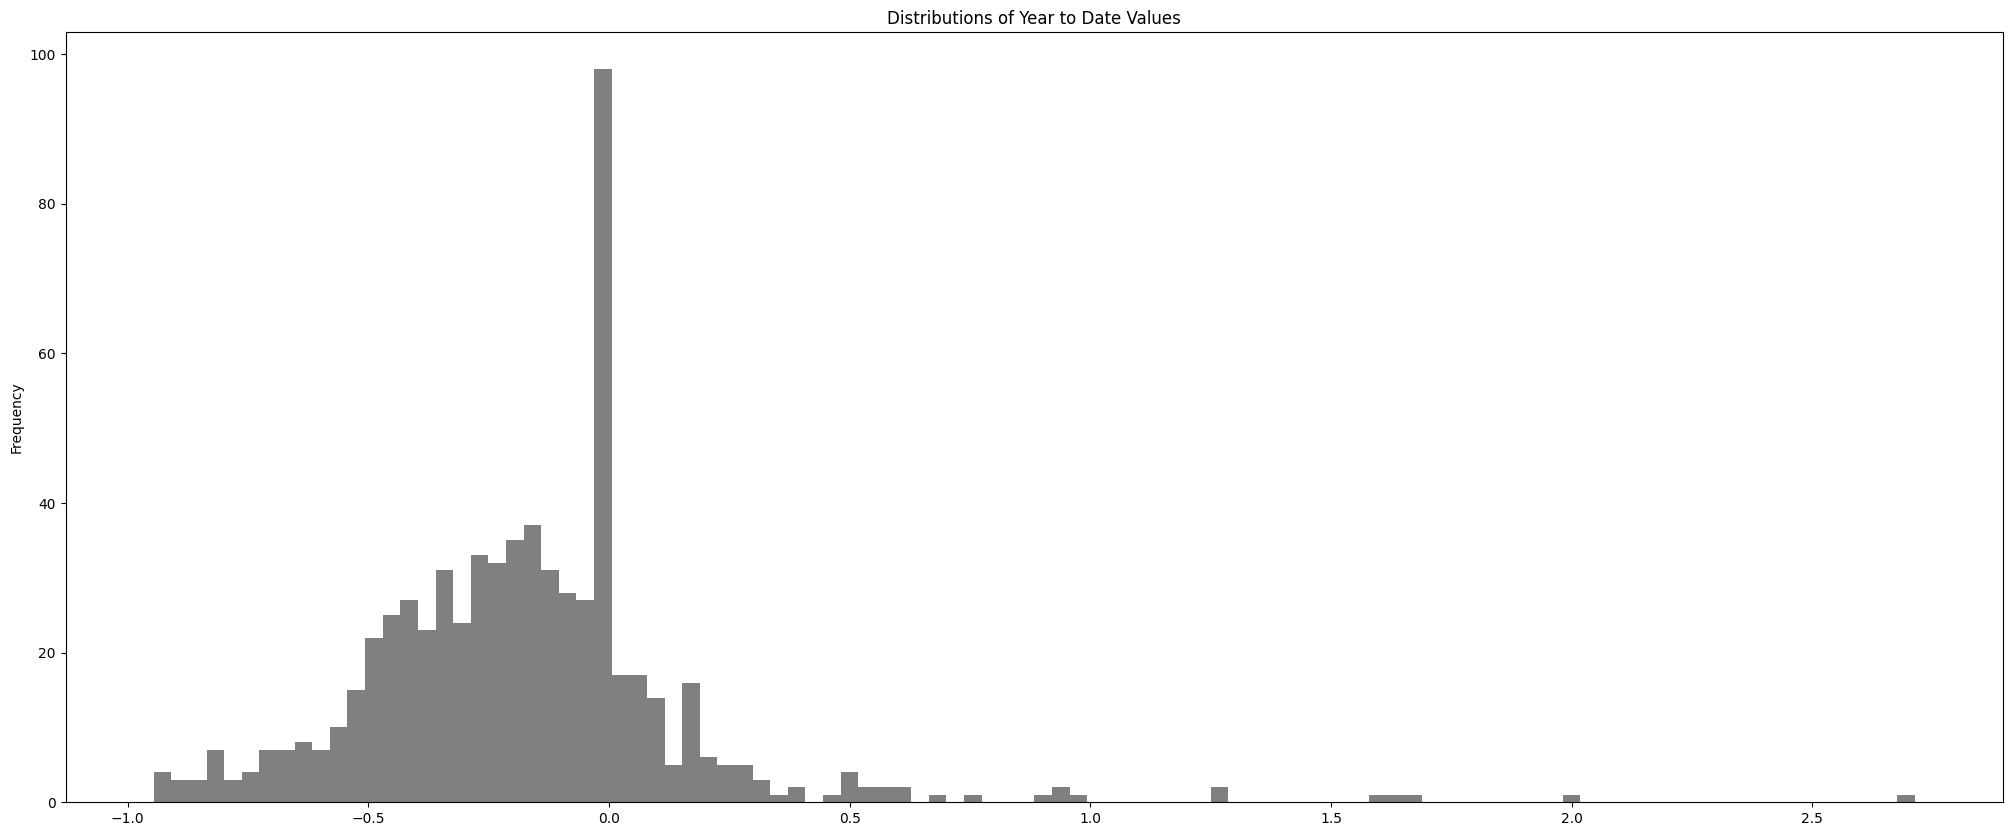
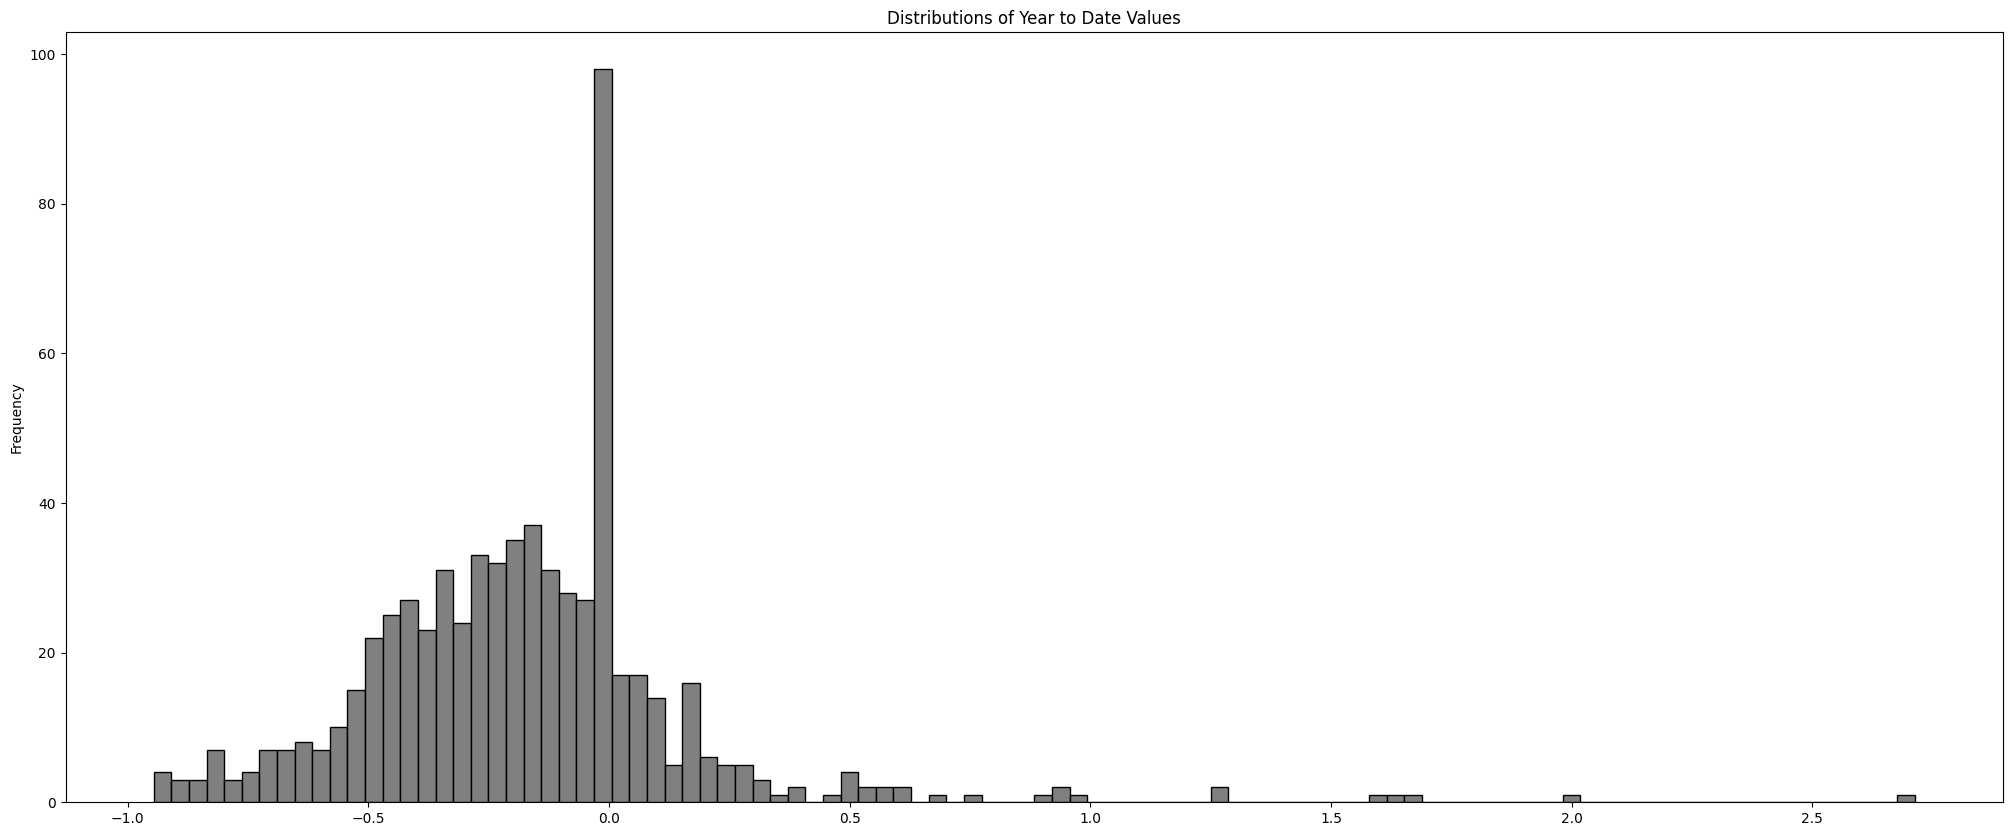
Add and modify files: - modify doc to include new plots - add new plots - modify script

diff --git a/indonesia_stock_exchange.py b/indonesia_stock_exchange.py
@@ -26,12 +26,19 @@ def get_close(df, year, date_col, close_col, is_min=True):
     return df
 
 def get_ytd(df):
-    min_date = get_close(df, 2020, 'DateMin', 'CloseMin')
-    max_date = get_close(df, 2020, 'DateMax', 'CloseMax', is_min=False)
+    year = date.today().year
+    min_date = get_close(df, year, 'DateMin', 'CloseMin')
+    max_date = get_close(df, year, 'DateMax', 'CloseMax', is_min=False)
     ytd = pd.merge(min_date, max_date, how='inner', on='StockCode')
     ytd['ytd'] = (ytd.CloseMax - ytd.CloseMin) / ytd.CloseMin
     
     return ytd
+
+def get_today(df):
+    today = df[df['Date'] == max(df.Date)][['StockCode', 'Previous', 'Close']]
+    today['percent_change'] = (today.Close - today.Previous) / today.Previous
+    
+    return today
 
 def trend(df, title, min_date='2015-01-01', max_date=date.today().strftime('%Y-%m-%d'), ascending=False):
     # get ticker list
@@ -73,27 +80,37 @@ def density(df, number_ticker):
     
 
 def histogram():
-    get_ytd(dataframe()).ytd.plot(kind='hist', bins=100, figsize=(25, 10), title='Distributions of Year to Date Values', color='gray')
+    get_ytd(dataframe()).ytd.plot(
+        kind='hist',
+        bins=100,
+        figsize=(25, 10),
+        title='Distributions of Year to Date Values',
+        color='gray',
+        ec='k'
+    )
     
     return plt.savefig(f'img/histogram.png', bbox_inches = 'tight')
 
-def bar(df):
-    ytd = get_ytd(df)
-    func_ytd = lambda df, asc: df.sort_values(by='ytd', ascending=asc)[:5]
-    ytd = pd.concat([func_ytd(ytd, True), func_ytd(ytd, False)])
-    ytd = ytd.sort_values(by='ytd', ascending=True)
-    ytd = ytd[['StockCode', 'ytd']]
-    ytd['positive'] = ytd.ytd > 0
-    ytd.plot(
+def bar(df, column, title, file_name):
+    func = lambda df, asc: df.sort_values(by=column, ascending=asc)[:5]
+    df = pd.concat([func(df, True), func(df, False)])
+    df = df.sort_values(by=column, ascending=True)
+    df = df[['StockCode', column]]
+    df['positive'] = df[column] > 0
+    df.plot(
         x='StockCode',
-        y='ytd', kind='bar',
-        color=ytd.positive.map({True: 'g', False: 'r'}),
+        y=column,
+        kind='bar',
+        color=df.positive.map({True: 'g', False: 'r'}),
         figsize=(25, 10),
-        legend=False,
-        title='Companies with Lowest and Highest Year to Date Values'
+        legend=False
     )
+    plt.xlabel('Ticker', fontsize=16)
+    plt.ylabel('Price change (%)', fontsize=16)
+    plt.tick_params(axis='both', which='major', labelsize=14)
+    plt.title(title, fontsize=24)
     
-    return plt.savefig(f'img/bar.png', bbox_inches = 'tight')
+    return plt.savefig(f'img/{file_name}.png', bbox_inches = 'tight')
 
 def correlation(df):
     df = df.select_dtypes(include=['float64'])
@@ -112,5 +129,16 @@ if __name__ == '__main__':
     trend(dataframe(), 'Trends of Stock Prices with Highest YTD', min_date='2020-01-01', ascending=False)
     trend(dataframe(), 'Trends of Stock Prices with Lowest YTD', min_date='2020-01-01', ascending=True)
     density(dataframe(), 5)
-    bar(dataframe())
+    bar(
+        get_ytd(dataframe()),
+        'ytd',
+        f'List of Companies with Lowest and Highest Year-to-Date Percentage Changes',
+        'bar-ytd'
+    )
+    bar(
+        get_today(dataframe()),
+        'percent_change',
+        f'List of Companies with Lowest and Highest Percentage Changes as of {date.today().strftime("%Y-%m-%d")}',
+        'bar-today'
+    )
     correlation(dataframe())

diff --git a/README.md b/README.md
@@ -21,10 +21,15 @@ TL;DR: if you don't want to run this locally and just want to go straight to the
 |[sekretaris.csv](https://raw.githubusercontent.com/ledwindra/indonesia-stock-exchange/main/data/sekretaris.csv)|A list of secretaries for each listed companies|
 |trading-summary-${YEAR}.csv|Daily trading summary since January 2, 2015 (prior that the data is unavailable)|
 
-# Plot Example
+# Plot Examples
+Below are plot examples, which are automatically updated daily at 12 AM UTC.
 
 #### 1. Bar
-![bar](./img/bar.png)
+- ##### Today
+![bar-today](./img/bar-today.png)
+
+- ##### Year to Date
+![bar-ytd](./img/bar-ytd.png)
 
 #### 2. Density
 ![density](./img/density.png)
